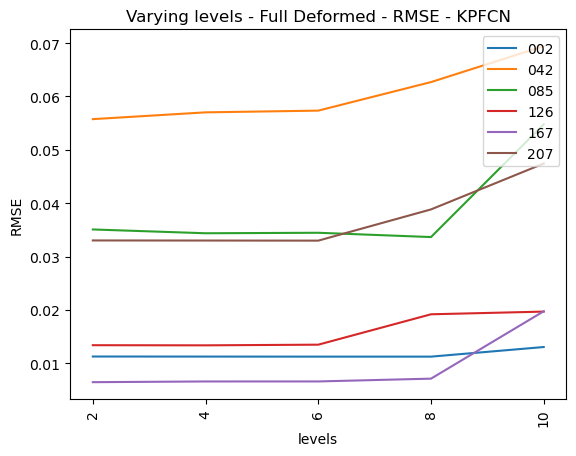
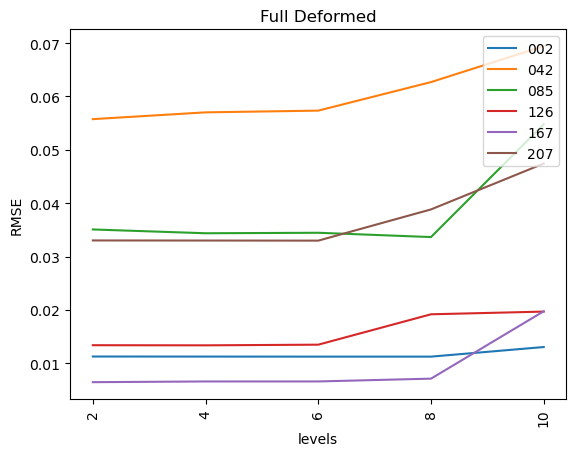
changing the titles of the plots

Changed region(s): [[0.2188, 0.0, 0.9062, 0.0614]]

diff --git a/Testing/levels/aggregate_data_levels_rmse.py b/Testing/levels/aggregate_data_levels_rmse.py
@@ -50,8 +50,6 @@ for line in Lines:
         i = levels_list.index(levels_val)
         final_matrices[current_model][current_data_type]['rmse'][i] = rmse
         
-print('final_matrices : ', final_matrices)
-
 for data_type in data_types:
     plt.clf()
     for model in models:
@@ -60,11 +58,11 @@ for data_type in data_types:
         plt.xticks(levels_pos, levels_list, rotation=90)
     
     if feature_extractor == 'fcgf':
-        plt.title('Varying levels - ' + data_type + ' - RMSE - FCGF')
+        plt.title(data_type)
     elif feature_extractor == 'kpfcn':
-        plt.title('Varying levels - ' + data_type + ' - RMSE - KPFCN')
+        plt.title(data_type)
         
     plt.ylabel('RMSE')
     plt.xlabel('levels')
     plt.legend(models, loc = "upper right")
-    plt.savefig(base + folder + data_type.replace(' ', '_') + '_graph_' + feature_extractor + '.png', bbox_inches='tight')
+    plt.savefig(base + folder + data_type.replace(' ', '_') + '_graph_' + feature_extractor + '_td_' + training_data + '.png', bbox_inches='tight')
